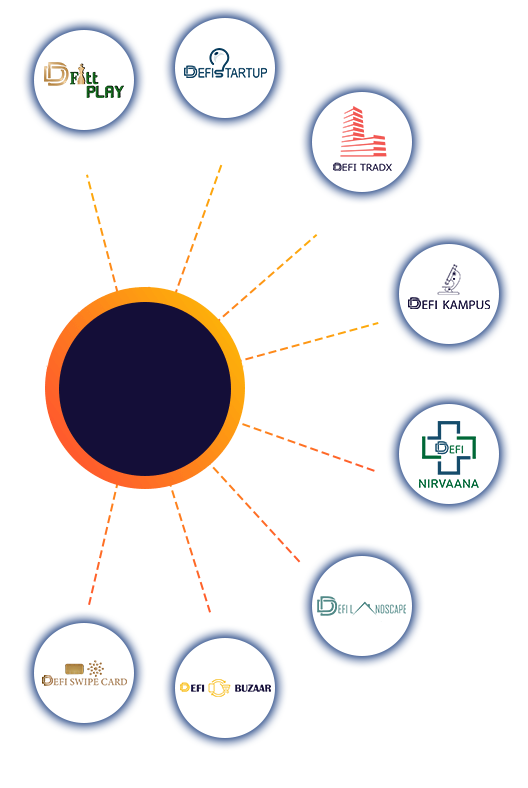
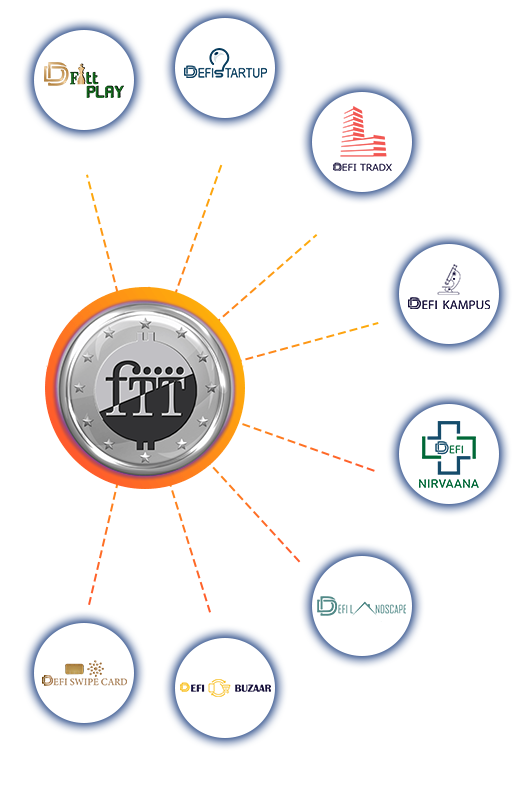
check code about us fix

Changed region(s): [[0.0909, 0.3655, 0.4545, 0.6091]]

diff --git a/src/components/pages/About.jsx b/src/components/pages/About.jsx
@@ -74,9 +74,9 @@ const About = (props) => {
                     src='theme-assets/images/what-is-crypto.png'
                     alt='What is Crypto?'
                   />
-                  <div className='play-video text-center'>
+                  {/* <div className='play-video text-center'>
                     <img src='theme-assets/images/hero-coin.png' width='100' />
-                  </div>
+                  </div> */}
                 </div>
               </div>
             </div>

diff --git a/src/App.css b/src/App.css
@@ -231,16 +231,18 @@
   padding: 120px 0;
 }
 
-/* .about-content-row{
-  margin-bottom: 7rem;
-} */
-
+.about-content-row{
+  margin-bottom: 4rem;
+}
+.about-content-row:last-child{
+  margin-bottom: 0;
+}
 .about-img {
   display: inline-block;
   vertical-align: top;
-  height: 300px;
+  height: 310px;
   width: 100%;
-  max-width: 520px;
+  max-width: 500px;
   overflow: hidden;
   background: #ab58d7;
   border: 8px solid #ab58d7;
